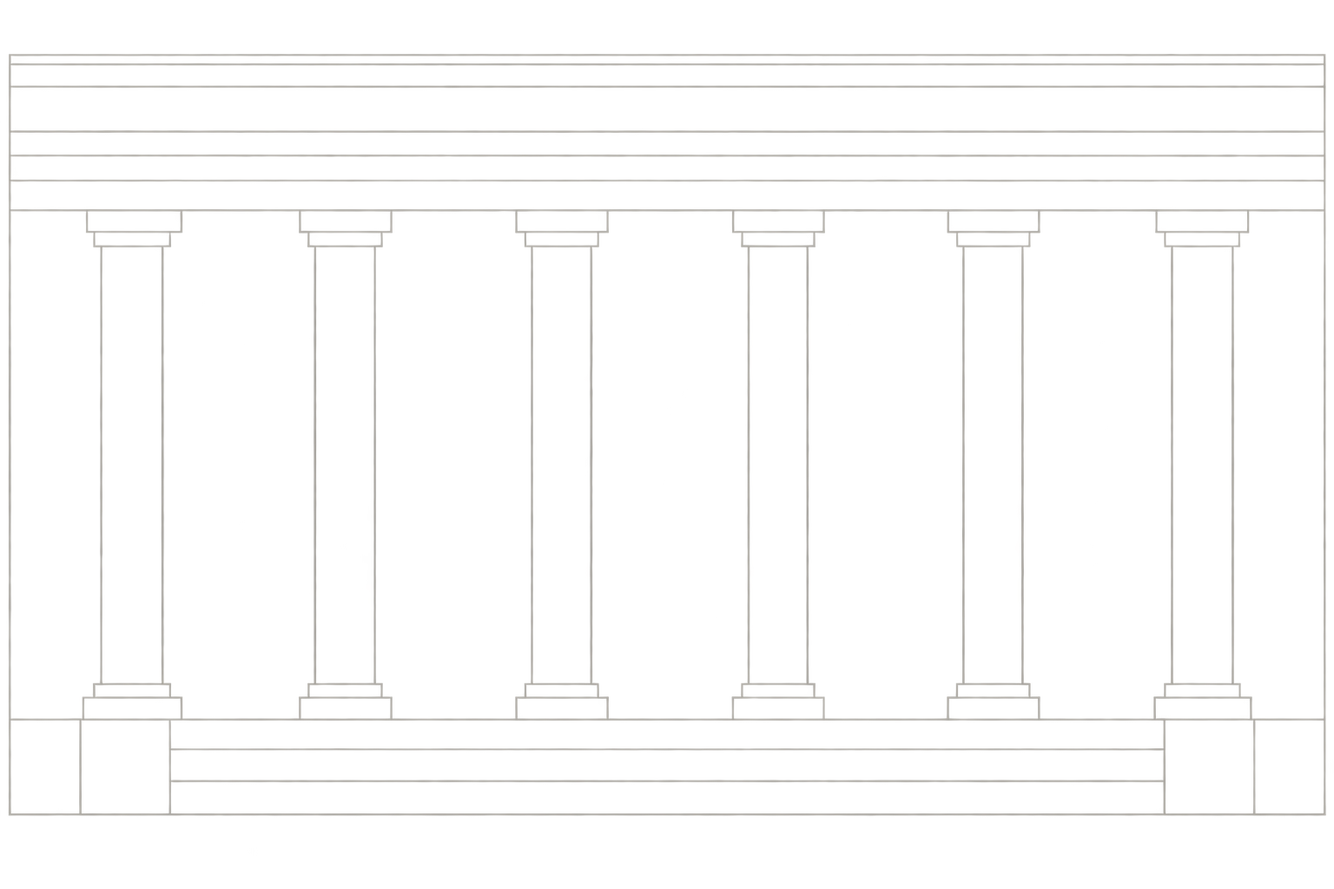
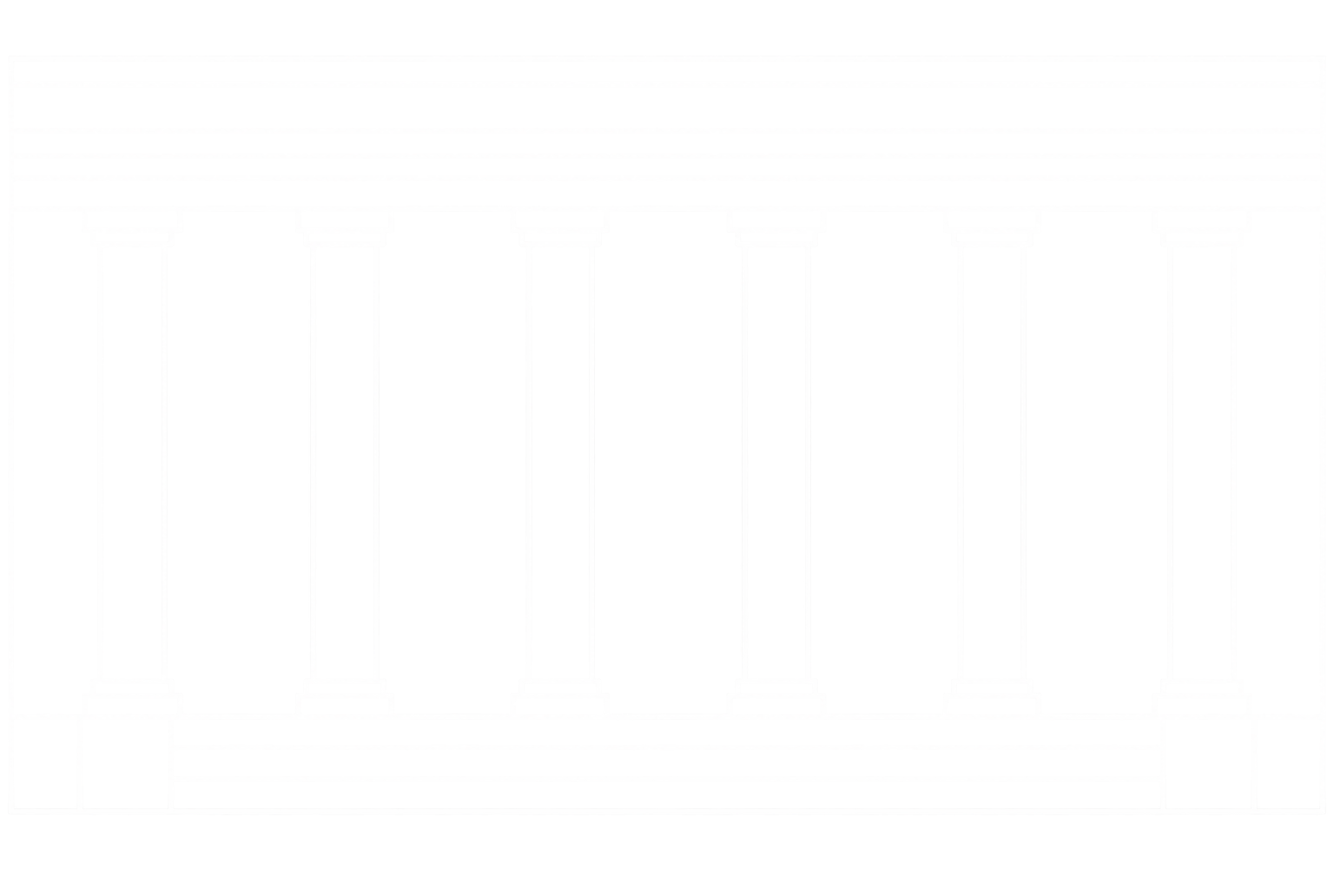
hero: remove Un paso a la vez pill, reposition Justicia pill to top, push bg drawings outside viewport, new bg-drawing-2

diff --git a/app/globals.css b/app/globals.css
@@ -1,5 +1,5 @@
 :root{--ink:#2c2526;--muted:#736968;--purple:#6b2d3e;--purple-dark:#52222f;--lavender:#f1e8dc;--lavender-soft:#f7f2ea;--line:#e6ded0;--paper:#fbf8f3;--white:#fff;--peach:#f3ebe0;--danger:#9d374c;--radius:20px;--shadow:0 16px 50px rgba(44,37,38,0.07)}
-*{box-sizing:border-box}html{scroll-behavior:smooth;scroll-padding-top:28px}body{margin:0;background:var(--paper);color:var(--ink);font-family:Inter,ui-sans-serif,-apple-system,BlinkMacSystemFont,'Segoe UI',sans-serif;font-size:15px;line-height:1.6}button,input,select,textarea{font:inherit}button,a,input,select,textarea{-webkit-tap-highlight-color:transparent}button{cursor:pointer}button:disabled{cursor:not-allowed;opacity:.5}a{color:inherit;text-decoration:none}button{color:inherit}h1,h2,h3,h4,p{margin-top:0}h1,h2,h3{line-height:1.17;letter-spacing:-.035em}h1{font-size:48px}h2{font-size:34px}h3{font-size:21px}h4{margin-bottom:7px;letter-spacing:-.01em}p{color:var(--muted)}svg{flex-shrink:0;stroke-width:1.65}::selection{background:#f1d6dd}button:focus-visible,a:focus-visible,input:focus-visible,select:focus-visible,textarea:focus-visible,summary:focus-visible{outline:3px solid #6b2d3e;outline-offset:4px}button{transition:background .18s,transform .18s,box-shadow .18s}button:active:not(:disabled){transform:translateY(1px)}.wrap{width:min(1180px,calc(100% - 80px));margin-inline:auto}.button{display:inline-flex;align-items:center;justify-content:center;gap:11px;min-height:50px;padding:13px 25px;border:1px solid transparent;border-radius:25px;background:var(--purple);color:white;font-weight:600;font-size:14px;letter-spacing:.005em;box-shadow:0 4px 14px rgba(107,45,62,0.18)}.button:hover:not(:disabled){background:var(--purple-dark);box-shadow:0 7px 22px rgba(107,45,62,0.28)}.button.small{min-height:40px;padding:9px 18px;font-size:13px;border-radius:20px}.button.outline{background:transparent;border-color:#dcd1c0;color:var(--ink);box-shadow:none}.button.outline:hover:not(:disabled){background:var(--lavender);border-color:var(--line)}.button.light{background:white;color:var(--purple-dark)}.text-button,.quiet-link,.back-button{border:0;background:none;display:inline-flex;align-items:center;gap:8px;padding:0;color:var(--ink);font-size:13px;font-weight:600}.text-button:hover,.quiet-link:hover{text-decoration:underline}.icon-button{display:inline-flex;align-items:center;justify-content:center;width:36px;height:36px;padding:0;border:0;background:transparent;border-radius:9px}.icon-button:hover{background:var(--lavender)}.brand{font-size:28px;letter-spacing:-1.5px;font-weight:750;white-space:nowrap;color:var(--ink)}.brand>span:not(.brand-dot){font-weight:430}.brand-dot{color:var(--purple);font-weight:800}.public-header{height:104px;display:flex;align-items:center;justify-content:space-between}.public-header nav{display:flex;align-items:center;gap:35px;font-size:13px}.public-header nav a:hover{color:var(--purple)}.public-header nav .text-button{color:var(--ink);font-weight:400}.hero{display:grid;grid-template-columns:1fr 1.05fr;align-items:center;min-height:640px;gap:40px;padding-top:20px;padding-bottom:50px;position:relative;overflow:visible}.eyebrow{display:flex;align-items:center;gap:9px;font-size:12px;letter-spacing:.02em;color:var(--muted);margin-bottom:27px}.tiny-dot{display:inline-block;width:6px;height:6px;border-radius:50%;background:var(--purple);flex-shrink:0}.hero h1{font-size:clamp(46px,4.8vw,68px);font-weight:700;letter-spacing:-.045em;line-height:1.08;margin-bottom:25px;color:var(--ink)}.hero h1 em{font-family:Georgia,'Times New Roman',serif;font-weight:400;font-style:italic;color:var(--purple);letter-spacing:-.04em}.hero-description{font-size:17px;line-height:1.75;max-width:440px;color:var(--muted)}.hero-actions{display:flex;gap:25px;align-items:center;margin-top:31px}.quiet-link{color:var(--ink);font-size:13px;font-weight:600}.quiet-link span{font-size:16px;margin-left:4px}.hero-note{display:flex;gap:8px;align-items:center;font-size:11px;color:var(--muted);margin-top:26px}.hero-visual{position:relative;isolation:isolate;min-height:540px;width:100%;display:flex;align-items:center;justify-content:center;margin-top:10px}.bg-drawing-1{position:absolute;right:-200px;top:-20px;width:460px;height:auto;opacity:.30;pointer-events:none;z-index:-1;mix-blend-mode:multiply}.bg-drawing-2{position:absolute;right:-230px;top:290px;width:380px;height:auto;opacity:.18;pointer-events:none;z-index:-1;mix-blend-mode:multiply}.hero-img{max-width:100%;height:auto;display:block}.layer-expediente{position:absolute;left:-80px;top:110px;width:360px;z-index:1;transform:rotate(-15deg);filter:drop-shadow(0 14px 40px rgba(60,45,35,0.12));animation:folder-left-enter 1s cubic-bezier(0.16,1,0.3,1) both, float-y 5s ease-in-out infinite 1s;transition:transform 0.4s ease}.layer-expediente:hover{transform:rotate(-19deg) scale(1.02) translateX(-10px)}.layer-tutela{position:absolute;right:-160px;top:105px;width:390px;z-index:2;filter:drop-shadow(0 16px 45px rgba(50,40,30,0.11));animation:folder-right-enter 1.1s cubic-bezier(0.16,1,0.3,1) both 0.1s, float-y-alt 6.5s ease-in-out infinite 1.2s;transition:transform 0.4s ease}.layer-tutela:hover{transform:rotate(16deg) scale(1.02) translateX(10px)}.layer-tu-caso-wrapper{position:relative;top:-45px;width:430px;z-index:4;filter:drop-shadow(0 25px 50px rgba(50,30,40,0.16));animation:folder-center-enter 0.9s cubic-bezier(0.16,1,0.3,1) both 0.2s, float-y 7s ease-in-out infinite 1.1s;transition:transform 0.4s ease}.layer-tu-caso-wrapper:hover{transform:translateY(-8px) rotate(-3.5deg) scale(1.01)}.layer-tu-caso{width:100%;height:auto;display:block}.tu-caso-overlay{position:absolute;left:72px;right:98px;top:128px;bottom:40px;display:flex;flex-direction:column;pointer-events:none;overflow:hidden}@keyframes folder-left-enter{0%{opacity:0;transform:translate(-30px, 30px) rotate(-6deg) scale(0.95)}100%{opacity:1;transform:translate(0, 0) rotate(-12deg) scale(1)}}@keyframes folder-right-enter{0%{opacity:0;transform:translate(30px, 30px) rotate(4deg) scale(0.95)}100%{opacity:1;transform:translate(0, 0) rotate(12deg) scale(1)}}@keyframes folder-center-enter{0%{opacity:0;transform:translateY(40px) rotate(0deg) scale(0.95)}100%{opacity:1;transform:translateY(0) rotate(-3.5deg) scale(1)}}@keyframes float-y{0%,100%{translate:0 0}50%{translate:0 -8px}}@keyframes float-y-alt{0%,100%{translate:0 0}50%{translate:0 -12px}}.tu-caso-overlay h2{font-size:22px;line-height:1.15;font-weight:700;color:var(--ink);margin-bottom:6px}.tu-caso-overlay p{font-size:11.5px;color:var(--muted);margin-bottom:15px}.card-top-row{display:flex;align-items:center;justify-content:space-between;gap:6px;margin-bottom:10px}.card-top-row .overline{font-size:8px;font-weight:700;letter-spacing:.08em;color:var(--purple);margin:0;white-space:nowrap;overflow:hidden;text-overflow:ellipsis}.badge-progress{background:#efe7db;color:var(--ink);font-size:8.5px;font-weight:600;padding:2px 7px;border-radius:12px;border:1px solid #e2d6c4;white-space:nowrap;flex-shrink:0}.card-item-row{display:flex;align-items:center;gap:8px;background:#f9f5ee;border:1px solid #eee4d5;border-radius:12px;padding:9px 12px;margin-bottom:10px}.card-item-icon{width:30px;height:30px;border-radius:8px;background:white;display:flex;align-items:center;justify-content:center;color:var(--purple);border:1px solid #e7dcce;flex-shrink:0}.card-item-info{flex:1;min-width:0}.card-item-info b{display:block;font-size:11px;font-weight:700;color:var(--ink);white-space:nowrap;overflow:hidden;text-overflow:ellipsis}.card-item-info span{display:block;font-size:9.5px;color:var(--muted);margin-top:1px;white-space:nowrap;overflow:hidden;text-overflow:ellipsis}.check-badge{width:22px;height:22px;border-radius:50%;background:#387250;color:white;display:flex;align-items:center;justify-content:center;flex-shrink:0}.row-right-icons{display:flex;align-items:center;gap:6px;margin-left:auto}.avatar-group{display:flex;align-items:center}.avatar-thumb{width:24px;height:24px;border-radius:50%;border:2px solid white;margin-left:-6px;object-fit:cover;background:#6b2d3e;color:white;display:inline-flex;align-items:center;justify-content:center;font-size:9px;font-weight:700}.avatar-thumb.two{background:#4a242e}.floating-pill{position:absolute;z-index:6;background:white;border:1px solid #e7dcce;border-radius:30px;padding:8px 16px;box-shadow:0 10px 25px rgba(50,35,40,0.08);display:flex;align-items:center;gap:8px;font-size:11px;font-weight:500;color:var(--ink);white-space:nowrap}.fp-top-left{left:-105px;top:100px;padding:9px 16px;transform:rotate(-10deg);animation:float-y 4s ease-in-out infinite 1s}.fp-top-left div{line-height:1.2}.fp-top-left b{display:block;font-size:11px;font-weight:700}.fp-top-left span{font-size:10px;color:var(--muted)}.fp-top-right{right:-5px;top:-10px;transform:rotate(5deg);animation:float-y-alt 5s ease-in-out infinite 1.5s}.fp-bottom-left{left:-90px;bottom:80px;transform:rotate(-5deg);animation:float-y 4.5s ease-in-out infinite 0.5s}.fp-bottom-center{left:30px;bottom:-10px;transform:rotate(-2deg);animation:float-y-alt 5.5s ease-in-out infinite 1.2s}.fp-bottom-right{right:-30px;bottom:20px;transform:rotate(8deg);animation:float-y 6s ease-in-out infinite 0.8s}.examples{text-align:center;padding:35px 0 65px}.examples p{font-size:13px;margin-bottom:18px;color:var(--muted);font-weight:500}.examples>div{display:flex;justify-content:center;gap:12px;flex-wrap:wrap}.example-pill{display:inline-flex;gap:12px;align-items:center;padding:10px 20px;border:1px solid #e2d6c5;border-radius:30px;background:#f3ede3;font-size:12px;color:var(--ink);font-weight:500}.example-pill:hover,.example-pill.active{background:#efe4d4;border-color:var(--purple);color:var(--purple);font-weight:600}.examples small{font-size:11px;display:block;margin-top:20px;color:var(--muted)}.how-section{background:#f5efe4;padding:75px 0}.section-heading{display:flex;justify-content:space-between;align-items:center;gap:20px;margin-bottom:31px}.section-heading h2{margin-bottom:0;font-weight:530}.section-heading p{font-size:13px;margin:0;line-height:1.8}.steps-grid{display:grid;grid-template-columns:repeat(3,1fr);gap:20px}.step-card{background:#fff;padding:29px;border-radius:17px;border:1px solid #ebe5f0}.step-top{display:flex;align-items:center;justify-content:space-between;color:var(--purple);margin-bottom:31px}.step-top span{font-size:11px;letter-spacing:.04em;color:#b7a3c7}.step-card h3{font-size:19px;font-weight:550;margin-bottom:14px}.step-card p{font-size:12px;line-height:1.9;margin-bottom:0}.privacy-section{display:grid;grid-template-columns:1fr 1fr;gap:85px;align-items:center;padding:100px 70px}.privacy-section h2{font-size:39px;font-weight:520}.privacy-section p{font-size:13px;max-width:400px}.privacy-art{height:286px;border:1px solid #e7deed;border-radius:50%;background:radial-gradient(ellipse,#eee5f5 0%,#f9f5fc 60%,#fcfbf9 70%);display:flex;align-items:center;justify-content:center;position:relative;color:var(--purple)}.privacy-art>img{width:78%;height:auto;border-radius:20px;box-shadow:0 14px 45px #6b4b8710;transform:rotate(-5deg)}.privacy-lock{position:absolute;left:25px;top:24px;width:49px;height:49px;border-radius:15px;background:#faf7fc;border:1px solid #ddcce9;display:flex;align-items:center;justify-content:center;color:var(--purple);box-shadow:0 10px 25px #6b4b8714}.privacy-art>svg{box-sizing:content-box;padding:29px;border:1px solid #ddcce9;border-radius:24px;background:#faf7fc;box-shadow:0 14px 45px #6b4b8710;transform:rotate(-8deg)}.privacy-art .tag{position:absolute;bottom:35px;right:0;font-size:11px;padding:8px 15px;transform:rotate(3deg)}.check-list{padding:0;list-style:none;margin:23px 0 0}.check-list li{display:flex;align-items:center;gap:9px;font-size:12px;color:var(--muted);margin-bottom:12px}.check-list svg{color:var(--purple)}.lawyer-banner{padding:39px 45px;background:#f2e9dc;border:1px solid #e4d7c6;border-radius:21px;display:flex;justify-content:space-between;align-items:center;gap:35px}.lawyer-banner h2{font-size:29px;font-weight:520;margin-bottom:11px}.lawyer-banner p{font-size:12px;margin:0;color:var(--muted)}.lawyer-banner .overline{font-size:8px;color:var(--purple)}.lawyer-banner .button{white-space:nowrap}.faq{display:grid;grid-template-columns:.85fr 1.15fr;gap:80px;padding-block:100px}.faq h2{font-size:32px;font-weight:500}.faq details{border-bottom:1px solid var(--line);padding:20px 0}.faq details:first-child{padding-top:0}.faq summary{list-style:none;font-size:13px;font-weight:550;cursor:pointer;display:flex;align-items:center;justify-content:space-between;gap:20px}.faq summary::-webkit-details-marker{display:none}.faq details p{font-size:12px;margin:15px 30px 0 0;line-height:1.85}.faq details[open] summary svg{transform:rotate(45deg)}.faq summary svg{transition:transform .2s;color:var(--purple)}.final-cta{text-align:center;padding:15px 0 85px}.final-cta>svg{color:var(--purple);margin-bottom:15px}.final-cta h2{font-size:31px;font-weight:500;margin-bottom:23px}footer{padding:28px 0;display:flex;align-items:center;gap:35px;border-top:1px solid var(--line)}footer .brand{font-size:23px}footer>span{font-size:10px;color:var(--muted)}footer>div{margin-left:auto;display:flex;gap:19px}footer button{background:none;border:0;padding:0;font-size:10px;color:var(--muted)}
+*{box-sizing:border-box}html{scroll-behavior:smooth;scroll-padding-top:28px}body{margin:0;background:var(--paper);color:var(--ink);font-family:Inter,ui-sans-serif,-apple-system,BlinkMacSystemFont,'Segoe UI',sans-serif;font-size:15px;line-height:1.6}button,input,select,textarea{font:inherit}button,a,input,select,textarea{-webkit-tap-highlight-color:transparent}button{cursor:pointer}button:disabled{cursor:not-allowed;opacity:.5}a{color:inherit;text-decoration:none}button{color:inherit}h1,h2,h3,h4,p{margin-top:0}h1,h2,h3{line-height:1.17;letter-spacing:-.035em}h1{font-size:48px}h2{font-size:34px}h3{font-size:21px}h4{margin-bottom:7px;letter-spacing:-.01em}p{color:var(--muted)}svg{flex-shrink:0;stroke-width:1.65}::selection{background:#f1d6dd}button:focus-visible,a:focus-visible,input:focus-visible,select:focus-visible,textarea:focus-visible,summary:focus-visible{outline:3px solid #6b2d3e;outline-offset:4px}button{transition:background .18s,transform .18s,box-shadow .18s}button:active:not(:disabled){transform:translateY(1px)}.wrap{width:min(1180px,calc(100% - 80px));margin-inline:auto}.button{display:inline-flex;align-items:center;justify-content:center;gap:11px;min-height:50px;padding:13px 25px;border:1px solid transparent;border-radius:25px;background:var(--purple);color:white;font-weight:600;font-size:14px;letter-spacing:.005em;box-shadow:0 4px 14px rgba(107,45,62,0.18)}.button:hover:not(:disabled){background:var(--purple-dark);box-shadow:0 7px 22px rgba(107,45,62,0.28)}.button.small{min-height:40px;padding:9px 18px;font-size:13px;border-radius:20px}.button.outline{background:transparent;border-color:#dcd1c0;color:var(--ink);box-shadow:none}.button.outline:hover:not(:disabled){background:var(--lavender);border-color:var(--line)}.button.light{background:white;color:var(--purple-dark)}.text-button,.quiet-link,.back-button{border:0;background:none;display:inline-flex;align-items:center;gap:8px;padding:0;color:var(--ink);font-size:13px;font-weight:600}.text-button:hover,.quiet-link:hover{text-decoration:underline}.icon-button{display:inline-flex;align-items:center;justify-content:center;width:36px;height:36px;padding:0;border:0;background:transparent;border-radius:9px}.icon-button:hover{background:var(--lavender)}.brand{font-size:28px;letter-spacing:-1.5px;font-weight:750;white-space:nowrap;color:var(--ink)}.brand>span:not(.brand-dot){font-weight:430}.brand-dot{color:var(--purple);font-weight:800}.public-header{height:104px;display:flex;align-items:center;justify-content:space-between}.public-header nav{display:flex;align-items:center;gap:35px;font-size:13px}.public-header nav a:hover{color:var(--purple)}.public-header nav .text-button{color:var(--ink);font-weight:400}.hero{display:grid;grid-template-columns:1fr 1.05fr;align-items:center;min-height:640px;gap:40px;padding-top:20px;padding-bottom:50px;position:relative;overflow:visible}.eyebrow{display:flex;align-items:center;gap:9px;font-size:12px;letter-spacing:.02em;color:var(--muted);margin-bottom:27px}.tiny-dot{display:inline-block;width:6px;height:6px;border-radius:50%;background:var(--purple);flex-shrink:0}.hero h1{font-size:clamp(46px,4.8vw,68px);font-weight:700;letter-spacing:-.045em;line-height:1.08;margin-bottom:25px;color:var(--ink)}.hero h1 em{font-family:Georgia,'Times New Roman',serif;font-weight:400;font-style:italic;color:var(--purple);letter-spacing:-.04em}.hero-description{font-size:17px;line-height:1.75;max-width:440px;color:var(--muted)}.hero-actions{display:flex;gap:25px;align-items:center;margin-top:31px}.quiet-link{color:var(--ink);font-size:13px;font-weight:600}.quiet-link span{font-size:16px;margin-left:4px}.hero-note{display:flex;gap:8px;align-items:center;font-size:11px;color:var(--muted);margin-top:26px}.hero-visual{position:relative;isolation:isolate;min-height:540px;width:100%;display:flex;align-items:center;justify-content:center;margin-top:10px}.bg-drawing-1{position:absolute;right:-320px;top:-20px;width:460px;height:auto;opacity:.30;pointer-events:none;z-index:-1;mix-blend-mode:multiply}.bg-drawing-2{position:absolute;right:-350px;top:260px;width:380px;height:auto;opacity:.18;pointer-events:none;z-index:-1;mix-blend-mode:multiply}.hero-img{max-width:100%;height:auto;display:block}.layer-expediente{position:absolute;left:-80px;top:110px;width:360px;z-index:1;transform:rotate(-15deg);filter:drop-shadow(0 14px 40px rgba(60,45,35,0.12));animation:folder-left-enter 1s cubic-bezier(0.16,1,0.3,1) both, float-y 5s ease-in-out infinite 1s;transition:transform 0.4s ease}.layer-expediente:hover{transform:rotate(-19deg) scale(1.02) translateX(-10px)}.layer-tutela{position:absolute;right:-160px;top:105px;width:390px;z-index:2;filter:drop-shadow(0 16px 45px rgba(50,40,30,0.11));animation:folder-right-enter 1.1s cubic-bezier(0.16,1,0.3,1) both 0.1s, float-y-alt 6.5s ease-in-out infinite 1.2s;transition:transform 0.4s ease}.layer-tutela:hover{transform:rotate(16deg) scale(1.02) translateX(10px)}.layer-tu-caso-wrapper{position:relative;top:-45px;width:430px;z-index:4;filter:drop-shadow(0 25px 50px rgba(50,30,40,0.16));animation:folder-center-enter 0.9s cubic-bezier(0.16,1,0.3,1) both 0.2s, float-y 7s ease-in-out infinite 1.1s;transition:transform 0.4s ease}.layer-tu-caso-wrapper:hover{transform:translateY(-8px) rotate(-3.5deg) scale(1.01)}.layer-tu-caso{width:100%;height:auto;display:block}.tu-caso-overlay{position:absolute;left:72px;right:98px;top:128px;bottom:40px;display:flex;flex-direction:column;pointer-events:none;overflow:hidden}@keyframes folder-left-enter{0%{opacity:0;transform:translate(-30px, 30px) rotate(-6deg) scale(0.95)}100%{opacity:1;transform:translate(0, 0) rotate(-12deg) scale(1)}}@keyframes folder-right-enter{0%{opacity:0;transform:translate(30px, 30px) rotate(4deg) scale(0.95)}100%{opacity:1;transform:translate(0, 0) rotate(12deg) scale(1)}}@keyframes folder-center-enter{0%{opacity:0;transform:translateY(40px) rotate(0deg) scale(0.95)}100%{opacity:1;transform:translateY(0) rotate(-3.5deg) scale(1)}}@keyframes float-y{0%,100%{translate:0 0}50%{translate:0 -8px}}@keyframes float-y-alt{0%,100%{translate:0 0}50%{translate:0 -12px}}.tu-caso-overlay h2{font-size:22px;line-height:1.15;font-weight:700;color:var(--ink);margin-bottom:6px}.tu-caso-overlay p{font-size:11.5px;color:var(--muted);margin-bottom:15px}.card-top-row{display:flex;align-items:center;justify-content:space-between;gap:6px;margin-bottom:10px}.card-top-row .overline{font-size:8px;font-weight:700;letter-spacing:.08em;color:var(--purple);margin:0;white-space:nowrap;overflow:hidden;text-overflow:ellipsis}.badge-progress{background:#efe7db;color:var(--ink);font-size:8.5px;font-weight:600;padding:2px 7px;border-radius:12px;border:1px solid #e2d6c4;white-space:nowrap;flex-shrink:0}.card-item-row{display:flex;align-items:center;gap:8px;background:#f9f5ee;border:1px solid #eee4d5;border-radius:12px;padding:9px 12px;margin-bottom:10px}.card-item-icon{width:30px;height:30px;border-radius:8px;background:white;display:flex;align-items:center;justify-content:center;color:var(--purple);border:1px solid #e7dcce;flex-shrink:0}.card-item-info{flex:1;min-width:0}.card-item-info b{display:block;font-size:11px;font-weight:700;color:var(--ink);white-space:nowrap;overflow:hidden;text-overflow:ellipsis}.card-item-info span{display:block;font-size:9.5px;color:var(--muted);margin-top:1px;white-space:nowrap;overflow:hidden;text-overflow:ellipsis}.check-badge{width:22px;height:22px;border-radius:50%;background:#387250;color:white;display:flex;align-items:center;justify-content:center;flex-shrink:0}.row-right-icons{display:flex;align-items:center;gap:6px;margin-left:auto}.avatar-group{display:flex;align-items:center}.avatar-thumb{width:24px;height:24px;border-radius:50%;border:2px solid white;margin-left:-6px;object-fit:cover;background:#6b2d3e;color:white;display:inline-flex;align-items:center;justify-content:center;font-size:9px;font-weight:700}.avatar-thumb.two{background:#4a242e}.floating-pill{position:absolute;z-index:6;background:white;border:1px solid #e7dcce;border-radius:30px;padding:8px 16px;box-shadow:0 10px 25px rgba(50,35,40,0.08);display:flex;align-items:center;gap:8px;font-size:11px;font-weight:500;color:var(--ink);white-space:nowrap}.fp-top-left{left:-105px;top:100px;padding:9px 16px;transform:rotate(-10deg);animation:float-y 4s ease-in-out infinite 1s}.fp-top-left div{line-height:1.2}.fp-top-left b{display:block;font-size:11px;font-weight:700}.fp-top-left span{font-size:10px;color:var(--muted)}.fp-top-right{right:20px;top:-30px;transform:rotate(3deg);animation:float-y-alt 5s ease-in-out infinite 1.5s}.fp-bottom-left{left:-90px;bottom:80px;transform:rotate(-5deg);animation:float-y 4.5s ease-in-out infinite 0.5s}.fp-bottom-center{left:60px;bottom:-10px;transform:rotate(-2deg);animation:float-y-alt 5.5s ease-in-out infinite 1.2s}.fp-bottom-right{right:-30px;bottom:20px;transform:rotate(8deg);animation:float-y 6s ease-in-out infinite 0.8s}.examples{text-align:center;padding:35px 0 65px}.examples p{font-size:13px;margin-bottom:18px;color:var(--muted);font-weight:500}.examples>div{display:flex;justify-content:center;gap:12px;flex-wrap:wrap}.example-pill{display:inline-flex;gap:12px;align-items:center;padding:10px 20px;border:1px solid #e2d6c5;border-radius:30px;background:#f3ede3;font-size:12px;color:var(--ink);font-weight:500}.example-pill:hover,.example-pill.active{background:#efe4d4;border-color:var(--purple);color:var(--purple);font-weight:600}.examples small{font-size:11px;display:block;margin-top:20px;color:var(--muted)}.how-section{background:#f5efe4;padding:75px 0}.section-heading{display:flex;justify-content:space-between;align-items:center;gap:20px;margin-bottom:31px}.section-heading h2{margin-bottom:0;font-weight:530}.section-heading p{font-size:13px;margin:0;line-height:1.8}.steps-grid{display:grid;grid-template-columns:repeat(3,1fr);gap:20px}.step-card{background:#fff;padding:29px;border-radius:17px;border:1px solid #ebe5f0}.step-top{display:flex;align-items:center;justify-content:space-between;color:var(--purple);margin-bottom:31px}.step-top span{font-size:11px;letter-spacing:.04em;color:#b7a3c7}.step-card h3{font-size:19px;font-weight:550;margin-bottom:14px}.step-card p{font-size:12px;line-height:1.9;margin-bottom:0}.privacy-section{display:grid;grid-template-columns:1fr 1fr;gap:85px;align-items:center;padding:100px 70px}.privacy-section h2{font-size:39px;font-weight:520}.privacy-section p{font-size:13px;max-width:400px}.privacy-art{height:286px;border:1px solid #e7deed;border-radius:50%;background:radial-gradient(ellipse,#eee5f5 0%,#f9f5fc 60%,#fcfbf9 70%);display:flex;align-items:center;justify-content:center;position:relative;color:var(--purple)}.privacy-art>img{width:78%;height:auto;border-radius:20px;box-shadow:0 14px 45px #6b4b8710;transform:rotate(-5deg)}.privacy-lock{position:absolute;left:25px;top:24px;width:49px;height:49px;border-radius:15px;background:#faf7fc;border:1px solid #ddcce9;display:flex;align-items:center;justify-content:center;color:var(--purple);box-shadow:0 10px 25px #6b4b8714}.privacy-art>svg{box-sizing:content-box;padding:29px;border:1px solid #ddcce9;border-radius:24px;background:#faf7fc;box-shadow:0 14px 45px #6b4b8710;transform:rotate(-8deg)}.privacy-art .tag{position:absolute;bottom:35px;right:0;font-size:11px;padding:8px 15px;transform:rotate(3deg)}.check-list{padding:0;list-style:none;margin:23px 0 0}.check-list li{display:flex;align-items:center;gap:9px;font-size:12px;color:var(--muted);margin-bottom:12px}.check-list svg{color:var(--purple)}.lawyer-banner{padding:39px 45px;background:#f2e9dc;border:1px solid #e4d7c6;border-radius:21px;display:flex;justify-content:space-between;align-items:center;gap:35px}.lawyer-banner h2{font-size:29px;font-weight:520;margin-bottom:11px}.lawyer-banner p{font-size:12px;margin:0;color:var(--muted)}.lawyer-banner .overline{font-size:8px;color:var(--purple)}.lawyer-banner .button{white-space:nowrap}.faq{display:grid;grid-template-columns:.85fr 1.15fr;gap:80px;padding-block:100px}.faq h2{font-size:32px;font-weight:500}.faq details{border-bottom:1px solid var(--line);padding:20px 0}.faq details:first-child{padding-top:0}.faq summary{list-style:none;font-size:13px;font-weight:550;cursor:pointer;display:flex;align-items:center;justify-content:space-between;gap:20px}.faq summary::-webkit-details-marker{display:none}.faq details p{font-size:12px;margin:15px 30px 0 0;line-height:1.85}.faq details[open] summary svg{transform:rotate(45deg)}.faq summary svg{transition:transform .2s;color:var(--purple)}.final-cta{text-align:center;padding:15px 0 85px}.final-cta>svg{color:var(--purple);margin-bottom:15px}.final-cta h2{font-size:31px;font-weight:500;margin-bottom:23px}footer{padding:28px 0;display:flex;align-items:center;gap:35px;border-top:1px solid var(--line)}footer .brand{font-size:23px}footer>span{font-size:10px;color:var(--muted)}footer>div{margin-left:auto;display:flex;gap:19px}footer button{background:none;border:0;padding:0;font-size:10px;color:var(--muted)}
 /* Shared forms and feedback */
 .muted{color:var(--muted)}.microcopy{font-size:11px;line-height:1.7;color:var(--muted)}.preserve{white-space:pre-wrap;overflow-wrap:anywhere}.modal{border:1px solid var(--line);border-radius:23px;box-shadow:0 30px 100px #20132935;background:var(--paper);color:var(--ink);padding:29px;width:min(600px,calc(100% - 32px));max-height:90dvh;overflow:auto;overscroll-behavior:contain}.modal::backdrop{background:#29203766;backdrop-filter:blur(4px)}.modal-head{display:flex;align-items:flex-start;justify-content:space-between;gap:20px;margin-bottom:15px}.modal-head h2{font-size:27px;font-weight:550;max-width:430px;margin:0}.modal>p{font-size:13px}.form-stack{display:flex;flex-direction:column;gap:18px;margin-top:20px}.form-stack>.button{align-self:flex-start}.field{display:flex;flex-direction:column;gap:7px;font-size:12px;font-weight:550;color:var(--ink)}.field small{font-size:10px;line-height:1.6;font-weight:400;color:var(--muted)}input:not([type=checkbox]):not([type=file]),select,textarea{border:1px solid #dfd7e7;background:white;color:var(--ink);border-radius:10px;padding:11px 13px;width:100%;font-size:13px;min-width:0}textarea{resize:vertical;line-height:1.7}input::placeholder,textarea::placeholder{color:#a49bab;font-weight:400}input[type=checkbox]{accent-color:var(--purple);width:17px;height:17px;margin:2px 0 0;flex-shrink:0}select{min-height:43px}.form-grid{display:grid;grid-template-columns:1fr 1fr;gap:15px}.checkbox-line{display:flex;gap:11px;font-size:12px;align-items:flex-start;color:var(--muted);line-height:1.7}.specialties{border:1px solid var(--line);border-radius:12px;padding:14px;display:flex;gap:10px 18px;flex-wrap:wrap}.specialties legend{font-size:12px;font-weight:550}.specialties label{display:flex;gap:6px;font-size:12px}.notice-panel{padding:17px 20px;border:1px solid #dfd3e9;background:var(--lavender-soft);border-radius:13px;margin:16px 0;color:var(--purple-dark);font-size:12px;line-height:1.8}.notice-panel p{margin:8px 0;color:inherit;white-space:pre-wrap;overflow-wrap:anywhere}.notice-panel.error{border-color:#e8cbd3;color:var(--danger)}.notice-panel .text-button{margin-left:12px}.auth-links{display:flex;justify-content:space-between;gap:20px;margin-top:22px}.oauth-button{width:100%;display:flex;align-items:center;justify-content:center;gap:10px;min-height:46px;border:1px solid #d8c9e3;border-radius:11px;background:white;color:var(--ink);font-size:13px;font-weight:600}.oauth-button:hover:not(:disabled){background:var(--lavender);border-color:#c4add6}.auth-divider{display:flex;align-items:center;gap:12px;margin:17px 0 2px;color:var(--muted);font-size:10px}.auth-divider:before,.auth-divider:after{content:"";height:1px;background:var(--line);flex:1}.auth-divider span{white-space:nowrap}.auth-links button{border:0;background:none;padding:0;font-size:11px;color:var(--purple)}.info-paragraph{line-height:1.85;font-size:13px}.toast{position:fixed;z-index:1000;bottom:25px;left:50%;transform:translateX(-50%);background:#fff;border:1px solid #d7c6e2;border-radius:14px;box-shadow:0 8px 50px #30243d22;padding:15px 17px;display:flex;align-items:center;gap:12px;width:max-content;max-width:min(650px,calc(100% - 32px));font-size:12px;color:var(--purple-dark)}.toast.error{color:var(--danger);border-color:#e9c8d1}.toast button{background:none;border:0;display:flex;color:inherit;padding:4px}.toast span{overflow-wrap:anywhere;max-height:180px;overflow:auto}.danger{color:var(--danger)!important}.danger-bg{background:var(--danger)}
 /* Workspace */

diff --git a/components/Landing.tsx b/components/Landing.tsx
@@ -105,25 +105,20 @@ export default function Landing({onStart,onLawyer,onLogin,onInfo}:{onStart:()=>v
       </div>
      </div>
 
-     <div className="floating-pill fp-top-right">
-      <HeartHandshake size={15} style={{color:'var(--purple)'}}/>
-      <span>Un paso a la vez</span>
-     </div>
-
      <div className="floating-pill fp-bottom-left">
-      <ShieldCheck size={16} style={{color:'#387250'}}/>
-      <span>Compartir con tranquilidad</span>
-     </div>
+       <ShieldCheck size={16} style={{color:'#387250'}}/>
+       <span>Compartir con tranquilidad</span>
+      </div>
 
-     <div className="floating-pill fp-bottom-center">
-      <LockKeyhole size={15} style={{color:'var(--purple)'}}/>
-      <span>Tu información siempre protegida</span>
-     </div>
+      <div className="floating-pill fp-bottom-center">
+       <LockKeyhole size={15} style={{color:'var(--purple)'}}/>
+       <span>Tu información siempre protegida</span>
+      </div>
 
-     <div className="floating-pill fp-bottom-right">
-      <Laptop size={15} style={{color:'var(--purple)'}}/>
-      <span>Justicia también en digital</span>
-     </div>
+      <div className="floating-pill fp-top-right">
+       <Laptop size={15} style={{color:'var(--purple)'}}/>
+       <span>Justicia también en digital</span>
+      </div>
     </div>
    </section>
 
